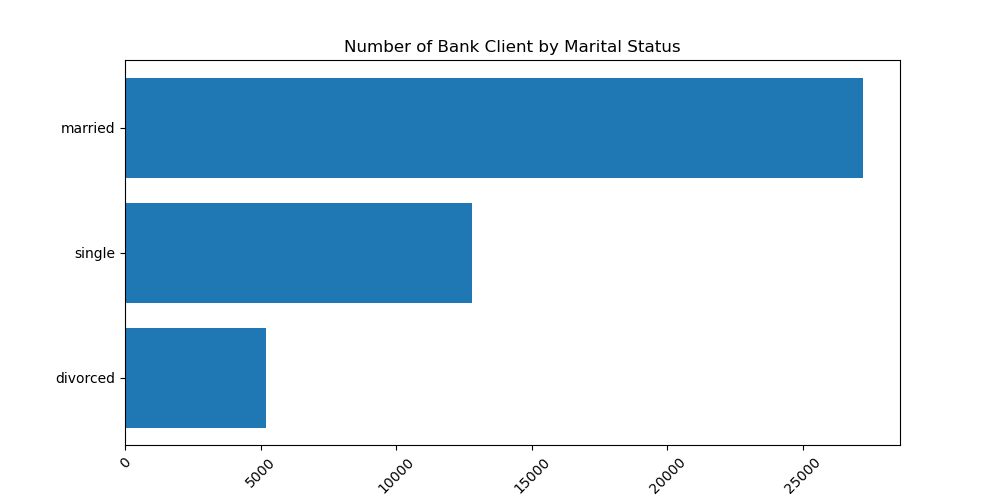
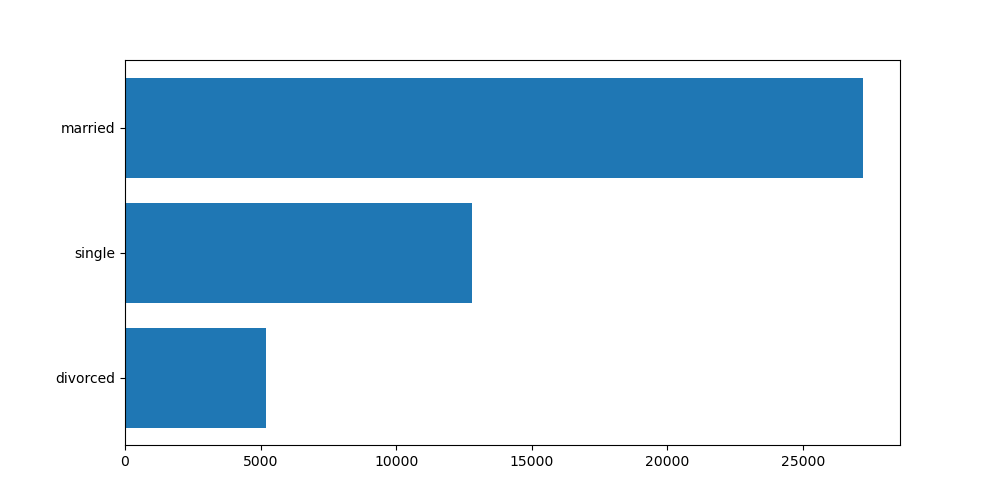
more figures

diff --git a/bank_prediction.py b/bank_prediction.py
@@ -10,29 +10,74 @@ pd.set_option('display.width', 1000)
 # load data
 df = pd.read_csv('data/bank-full.csv', delimiter=';')
 
-# Exploratory Data Analysis
-# age
-plt.subplots(figsize=(10,5))
-plt.hist(df['age'], bins=30)
-plt.title("Bank Client's Age Histogram")
-# plt.show()
+# # Exploratory Data Analysis
+# # age
+# plt.subplots(figsize=(10,5))
+# plt.hist(df['age'], bins=30)
+# plt.title("Bank Client's Age Histogram")
 # plt.savefig("figure/age_histogram.png")
-
-# job category
-job_cat = df['job'].value_counts().sort_values()
-
-plt.subplots(figsize=(10,8))
-plt.barh(y=job_cat.index, width=job_cat.values)
-plt.xticks(rotation=45)
-plt.title('Number of Bank Client by Job')
 # plt.show()
+
+# # job category
+# job_cat = df['job'].value_counts().sort_values()
+
+# plt.subplots(figsize=(10,8))
+# plt.barh(y=job_cat.index, width=job_cat.values)
+# plt.title('Number of Bank Client by Job')
 # plt.savefig("figure/number_of_by_job.png")
+# plt.show()
 
-# marital category
-mar_cat = df['marital'].value_counts().sort_values()
+# # marital status
+# mar_cat = df['marital'].value_counts().sort_values()
 
-plt.subplots(figsize=(10,5))
-plt.barh(y=mar_cat.index, width=mar_cat.values)
-plt.xticks(rotation=45)
-plt.title('Number of Bank Client by Marital Status')
-plt.savefig("figure/number_of_by_marital_status.png")
+# plt.subplots(figsize=(10,5))
+# plt.barh(y=mar_cat.index, width=mar_cat.values)
+# plt.savefig("figure/number_of_by_marital_status.png")
+# plt.title('Number of Bank Client by Marital Status')
+
+
+# # housing loan
+# housing = df['housing'].value_counts()
+
+# plt.subplots(figsize=(10,5))
+# plt.bar(x=housing.index, height=housing.values)
+# plt.title('Number of Bank Client by Housing Loan')
+# plt.savefig("figure/number_of_by_housing_loan.png")
+# plt.show()
+
+# # personal loan
+# personal_loan = df['loan'].value_counts()
+
+# plt.subplots(figsize=(10,5))
+# plt.bar(x=personal_loan.index, height=personal_loan.values)
+# plt.title('Number of Bank Client by Personal Loan')
+# plt.savefig("figure/number_of_by_personal_loan.png")
+# plt.show()
+
+# # contact
+# contact = df['contact'].value_counts()
+
+# plt.subplots(figsize=(10,5))
+# plt.bar(x=contact.index, height=contact.values)
+# plt.suptitle('Related to The Campaign')
+# plt.title('Number of Bank Client by Contact Communication Type')
+# plt.savefig("figure/number_of_by_contact_used.png")
+# plt.show()
+
+# # previous campaign outcame
+# target = df['poutcome'].value_counts()
+
+# plt.subplots(figsize=(10,5))
+# plt.bar(x=target.index, height=target.values)
+# plt.title('Number of Bank Clients by Previous Campaign Outcome')
+# plt.savefig("figure/number_of_by_poutcome.png")
+# plt.show()
+
+# # target
+# target = df['y'].value_counts()
+
+# plt.subplots(figsize=(10,5))
+# plt.bar(x=target.index, height=target.values)
+# plt.title('Number of Subscriber of Term Deposit \n (Campaign Target)')
+# plt.savefig("figure/number_of_by_y.png")
+# plt.show()

diff --git a/README.md b/README.md
@@ -1,6 +1,7 @@
 # Bank Marketing
 
 Data Source: https://archive.ics.uci.edu/ml/datasets/Bank+Marketing
+
 Metadata: data/bank-names.txt
 
 ---
@@ -11,3 +12,14 @@ Metadata: data/bank-names.txt
 
 ![Count Marital Status !](/figure/number_of_by_marital_status.png)
 
+![Count Housing Loan !](/figure/number_of_by_housing_loan.png)
+
+![Count Personal Loan !](/figure/number_of_by_personal_loan.png)
+
+## Related to The Campaign
+
+![Contact Type !](/figure/number_of_by_contact_used.png)
+
+![Target !](/figure/number_of_by_y.png)
+
+![Poutcome !](/figure/number_of_by_poutcome.png)
